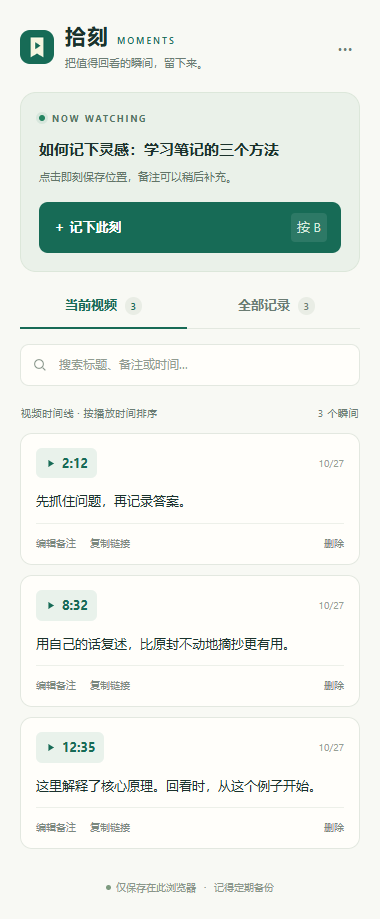
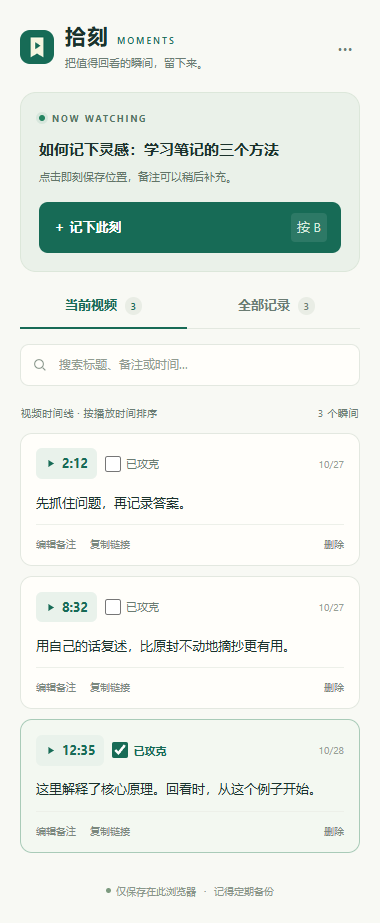
Add persistent listening mastery checkboxes in v1.2.0

diff --git a/core.js b/core.js
@@ -27,6 +27,7 @@ function requireString(value, max, label, empty = false) {
 }
 export function validateRecord(value) {
   if (!value || typeof value !== 'object' || Array.isArray(value)) throw new Error('记录格式不正确。');
+  if (value.mastered !== undefined && typeof value.mastered !== 'boolean') throw new Error('攻克状态格式不正确。');
   if (typeof value.videoId !== 'string' || !VIDEO_ID.test(value.videoId)) throw new Error('视频 ID 格式不正确。');
   if (!Number.isInteger(value.seconds) || value.seconds < 0 || value.seconds > 31536000) throw new Error('时间戳格式不正确。');
   for (const key of ['createdAt', 'updatedAt']) {
@@ -38,12 +39,13 @@ export function validateRecord(value) {
     title: requireString(value.title, 300, '视频标题'),
     seconds: value.seconds,
     note: requireString(value.note, 5000, '备注', true),
+    mastered: value.mastered ?? false,
     createdAt: new Date(value.createdAt).toISOString(),
     updatedAt: new Date(value.updatedAt).toISOString()
   };
 }
 export function createRecord(capture, now = new Date().toISOString(), id = crypto.randomUUID()) {
-  return validateRecord({ ...capture, seconds: Math.floor(capture.seconds), note: '', id, createdAt: now, updatedAt: now });
+  return validateRecord({ ...capture, seconds: Math.floor(capture.seconds), note: '', mastered: false, id, createdAt: now, updatedAt: now });
 }
 export function parseBackup(text) {
   if (typeof text !== 'string') throw new Error('备份内容无效。');
@@ -59,7 +61,7 @@ export function parseBackup(text) {
 export function mergeRecords(existing, incoming, newId = () => crypto.randomUUID()) {
   const records = existing.map(r => ({ ...r }));
   const ids = new Set(records.map(r => r.id));
-  const fingerprint = r => JSON.stringify([r.videoId, r.seconds, r.note, r.createdAt]);
+  const fingerprint = r => JSON.stringify([r.videoId, r.seconds, r.note, r.createdAt, r.mastered ?? false]);
   const seen = new Set(records.map(fingerprint));
   let added = 0;
   for (const raw of incoming) {
@@ -95,7 +97,7 @@ export function toMarkdown(records) {
   const lines = ['# 拾刻 · YouTube 时间戳', ''];
   for (const group of groupRecords(records)) {
     lines.push('## ' + escapeMarkdown(group.title.replace(/[\r\n]+/g, ' ')), '', '[打开视频](https://www.youtube.com/watch?v=' + group.videoId + ')', '');
-    for (const r of group.records) lines.push('- [' + formatTime(r.seconds) + '](' + timestampUrl(r) + ')' + (r.note ? ' — ' + escapeMarkdown(r.note).replace(/\r?\n/g, '\n  ') : ''));
+    for (const r of group.records) lines.push('- [' + (r.mastered ? 'x' : ' ') + '] [' + formatTime(r.seconds) + '](' + timestampUrl(r) + ')' + (r.note ? ' — ' + escapeMarkdown(r.note).replace(/\r?\n/g, '\n  ') : ''));
     lines.push('');
   }
   return lines.join('\n');

diff --git a/panel.js b/panel.js
@@ -13,6 +13,7 @@ let contextRequest = 0;
 let storeRequest = 0;
 let recordBusy = false;
 let nativeShortcut = '';
+const masteryPending = new Set();
 async function refreshShortcutSettings() {
   const value = await send({ type: 'GET_SHORTCUT' });
   $('single-key-enabled').checked = value.enabled;
@@ -96,6 +97,11 @@ function render() {
       if (displayed++ >= pageSize) break;
       const card = $('record-template').content.firstElementChild.cloneNode(true);
       card.dataset.id = record.id;
+      card.classList.toggle('mastered', !!record.mastered);
+      const checkbox = card.querySelector('.mastery-checkbox');
+      checkbox.checked = !!record.mastered;
+      checkbox.disabled = masteryPending.has(record.id);
+      checkbox.setAttribute('aria-label', formatTime(record.seconds) + ' 已攻克');
       card.querySelector('.time-button span').textContent = formatTime(record.seconds);
       card.querySelector('.time-button').setAttribute('aria-label', '跳转到 ' + formatTime(record.seconds));
       card.querySelector('.date').textContent = dateLabel(record.createdAt);
@@ -174,6 +180,29 @@ $('record').addEventListener('click', async () => {
 for (const value of ['current', 'all']) $('tab-' + value).addEventListener('click', () => { mode = value; pageSize = 100; render(); });
 $('search').addEventListener('input', () => { pageSize = 100; render(); });
 $('load-more').addEventListener('click', () => { pageSize += 100; render(); });
+$('records').addEventListener('change', async event => {
+  const checkbox = event.target;
+  if (!checkbox.matches('.mastery-checkbox')) return;
+  const id = checkbox.closest('.moment').dataset.id;
+  if (masteryPending.has(id)) return;
+  const mastered = checkbox.checked;
+  masteryPending.add(id);
+  checkbox.disabled = true;
+  clearError();
+  try {
+    await send({ type: 'SET_MASTERED', id, mastered });
+    await refreshStore();
+    toast(mastered ? '已标记为攻克' : '已取消攻克标记');
+  } catch (error) { showError(error); }
+  finally {
+    masteryPending.delete(id);
+    const restoreFocus = document.activeElement === checkbox || document.activeElement === document.body;
+    render();
+    if (restoreFocus) {
+      [...$('records').querySelectorAll('.moment')].find(card => card.dataset.id === id)?.querySelector('.mastery-checkbox').focus();
+    }
+  }
+});
 $('records').addEventListener('click', async event => {
   const button = event.target.closest('button');
   const card = button?.closest('.moment');

diff --git a/panel.css b/panel.css
@@ -42,11 +42,16 @@ kbd { font: 10px/1.3 inherit; font-family: inherit; font-weight: 400; background
 .video-group h2 { font-size: 13px; line-height: 1.7; font-weight: 650; overflow-wrap: anywhere; }
 .video-group p { color: var(--muted); font-size: 10px; margin-top: 3px; }
 .moment { border: 1px solid var(--line); background: #fffefa; padding: 14px 15px 10px; border-radius: 12px; margin-bottom: 10px; }
-.moment-top { display: flex; justify-content: space-between; align-items: center; gap: 8px; }
+.moment-top { display: flex; align-items: center; gap: 8px; flex-wrap: wrap; }
+.mastery-label { display: inline-flex; align-items: center; gap: 5px; min-height: 32px; cursor: pointer; color: var(--muted); font-size: 11px; white-space: nowrap; }
+.mastery-checkbox { width: 16px; height: 16px; margin: 0; accent-color: var(--green); cursor: pointer; }
+.mastery-checkbox:disabled { cursor: wait; }
+.moment.mastered { border-color: #a9cbb8; background: #f3f8f1; }
+.moment.mastered .mastery-label { color: var(--green); font-weight: 600; }
 .time-button { display: flex; align-items: center; gap: 6px; background: #e9f2eb; color: var(--green); padding: 5px 9px; border-radius: 6px; font-size: 13px; font-weight: 650; font-variant-numeric: tabular-nums; }
 .time-button:hover { background: #d6e9dd; }
 .time-button svg { width: 11px; height: 11px; fill: currentColor; }
-.date { color: #96a095; font-size: 10px; }
+.date { color: #96a095; font-size: 10px; margin-left: auto; }
 .note { margin: 11px 0 10px; line-height: 1.8; font-size: 13px; white-space: pre-wrap; overflow-wrap: anywhere; }
 .note.no-note { color: #a0a99f; font-size: 12px; }
 .moment-actions { display: flex; gap: 14px; border-top: 1px solid #edf0e9; padding-top: 8px; }

diff --git a/panel.html b/panel.html
@@ -61,7 +61,7 @@
   </dialog>
   <template id="record-template">
     <article class="moment">
-      <div class="moment-top"><button class="time-button" title="跳转并播放"><svg viewBox="0 0 16 16" aria-hidden="true"><path d="m5 3 8 5-8 5z"/></svg><span></span></button><span class="date"></span></div>
+      <div class="moment-top"><button class="time-button" title="跳转并播放"><svg viewBox="0 0 16 16" aria-hidden="true"><path d="m5 3 8 5-8 5z"/></svg><span></span></button><label class="mastery-label"><input class="mastery-checkbox" type="checkbox"><span>已攻克</span></label><span class="date"></span></div>
       <p class="note"></p>
       <div class="moment-actions"><button class="edit">编辑备注</button><button class="copy">复制链接</button><button class="delete" aria-label="删除记录">删除</button></div>
     </article>

diff --git a/background.js b/background.js
@@ -95,6 +95,16 @@ async function handle(message, sender) {
   }
   requirePanel(sender);
   switch (message.type) {
+    case 'SET_MASTERED': {
+      if (typeof message.mastered !== 'boolean') throw new Error('攻克状态格式不正确。');
+      return mutate(state => {
+        const record = state.records.find(r => r.id === message.id);
+        if (!record) throw new Error('这条记录已被删除。');
+        record.mastered = message.mastered;
+        record.updatedAt = new Date().toISOString();
+        return record;
+      });
+    }
     case 'SET_SHORTCUT': {
       const settings = MomentsShortcut.normalize(message.settings);
       await chrome.storage.local.set({ [SHORTCUT_KEY]: settings });

diff --git a/docs/TESTING.md b/docs/TESTING.md
@@ -1,10 +1,10 @@
-# 拾刻 v1.1.0 验证说明
+# 拾刻 v1.2.0 验证说明
 
 验证环境：Windows，Chrome 155 独立无头浏览器配置文件。扩展通过开发调试接口实际加载；清单与后台服务启动正常。
 
 ## 已通过
 
-- 12 项 Node.js 核心测试：观看页识别、秒数取整和长视频格式、JSON 往返、非法备份拒绝、重复导入、冲突备注保留、排序搜索、Markdown 文本转义。
+- 14 项 Node.js 核心测试：观看页识别、秒数取整和长视频格式、JSON 往返、非法备份拒绝、重复导入、冲突备注与攻克状态保留、旧数据兼容、排序搜索、Markdown 文本转义与任务复选框。
 - 从真实 HTML 媒体元素的 755.4 秒记录为 12:35。
 - 播放位置继续改变后保存备注，记录仍保持 12:35。
 - 同视频跳转实际调整媒体元素的 currentTime。
@@ -35,3 +35,7 @@
 ## v1.1 单键记录追加验证
 
 通过真实浏览器键盘事件验证：B 保存、长按只保存一次、输入框/可编辑评论/ARIA 文本框/扩展 Shadow DOM 备注输入不误触、组合键不误触、从 B 改为 X 即刻生效、旧键失效、页面刷新后设置保留、关闭后不触发。输入法状态和不可信合成事件的保护逻辑通过单元测试验证。原有浏览器集成流程回归通过。
+
+## v1.2 精听攻克标记追加验证（2026-10-28）
+
+Chrome 独立配置文件中实际加载扩展，完整集成流程通过：鼠标勾选/取消、空格键勾选、多个面板同步、勾选不改变视频位置或备注、非法状态拒绝、删除撤销保留状态、面板刷新保留状态、JSON 导出后删除再导入恢复状态、Markdown 导出任务复选框。旧版无攻克字段的记录正常显示为未勾选。300 像素宽面板没有横向溢出，未出现未捕获的页面异常。仍使用离线视频测试页面，真实 YouTube 与 Edge 的验证边界同上。

diff --git a/README.md b/README.md
@@ -24,6 +24,7 @@
 - 侧边栏中的「记下此刻」同样能记录，并弹出可选备注编辑框。关闭编辑框不会删除已经保存的时间戳。
 - 「当前视频」按播放时间排列；「全部记录」按视频分组，最近有记录的视频排在前面。
 - 点击绿色时间按钮：正在观看同一视频时直接跳转并尝试播放；否则新建一个带时间参数的视频标签页。
+- 精听攻克一段后，勾选时间戳旁的「已攻克」。可随时取消，勾选不会触发视频跳转，状态会自动保存；旧记录默认未勾选。
 - 浏览器若限制自动播放，定位后手动点击播放器即可。
 - 可以搜索标题、备注或 12:35 这样的时间。
 - 删除后可在 10 秒内点击「撤销」。
@@ -40,9 +41,9 @@
 
 点击侧边栏右上角「···」：
 
-- **备份 JSON**：导出全部记录，可用于恢复或迁移。
-- **导入 JSON 备份**：合并记录，跳过重复内容；不会覆盖已有备注。相同记录 ID 的冲突版本会分别保留。
-- **导出 Markdown**：生成按视频分组的笔记，每个时间戳都是可点击的视频链接。
+- **备份 JSON**：导出全部记录及攻克状态，可用于恢复或迁移。
+- **导入 JSON 备份**：合并记录，跳过重复内容；不会覆盖已有备注或攻克状态。相同记录 ID 的冲突版本会分别保留。旧版备份缺少攻克状态时按未攻克导入。
+- **导出 Markdown**：生成按视频分组的笔记，每个时间戳都是可点击的视频链接，并以任务复选框保留攻克状态。
 
 导入会先校验整个文件；有损坏记录时不写入。单个备份文件上限为 8 MB，最多 10,000 条记录，单条备注最多 5,000 字。接近存储上限时会提示先备份和清理。
 
